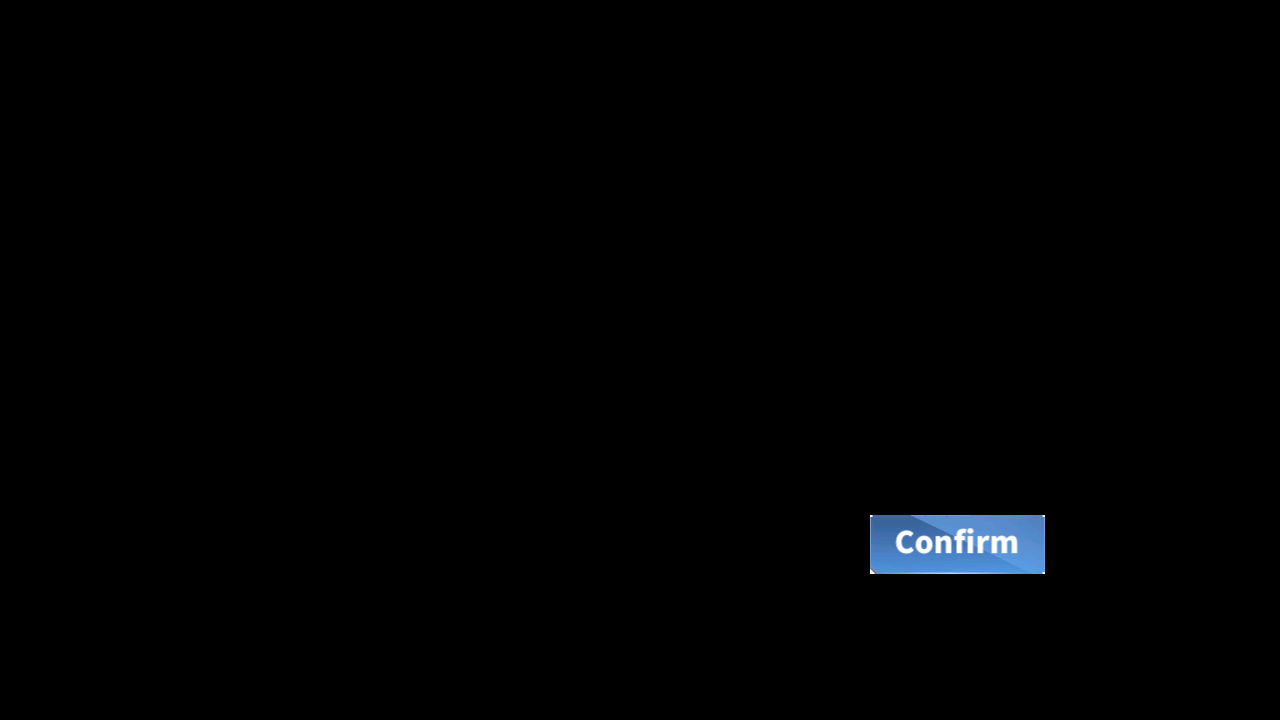
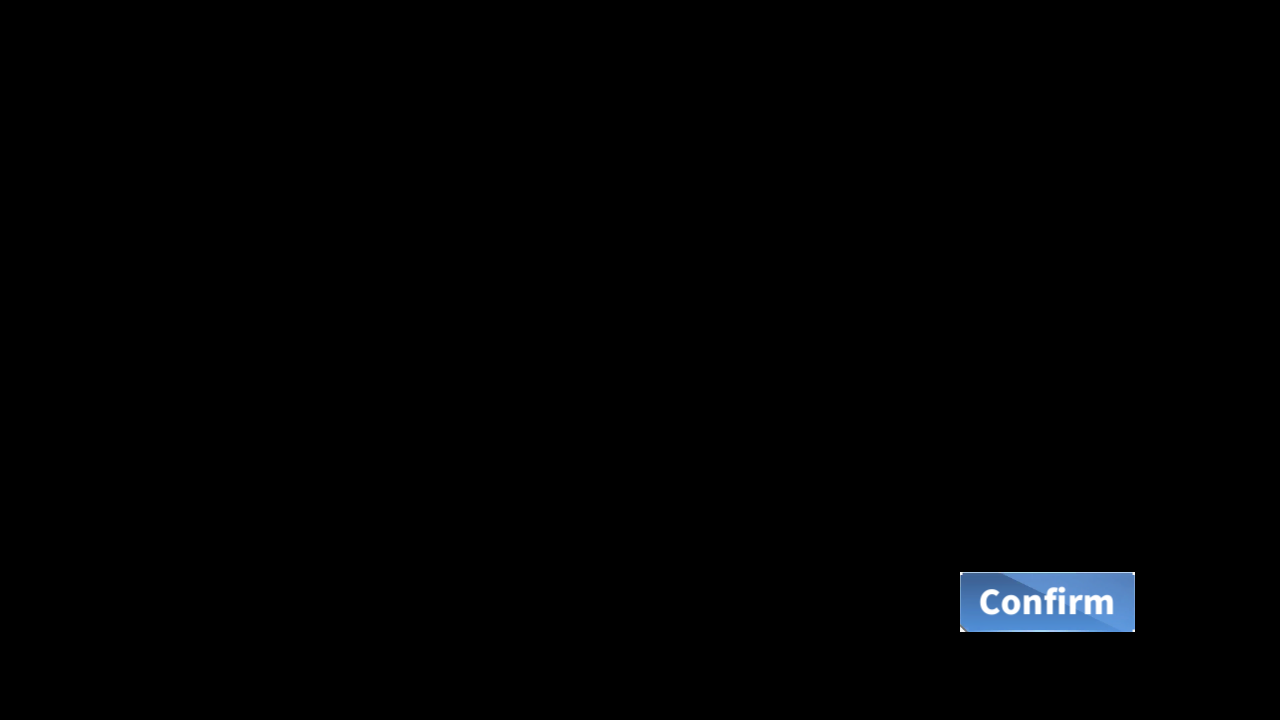
Fix: adapt some asset changes for EN and adjust retirement TODO: other servers equip confirm assets
.

Changed region(s): [[0.6562, 0.7028, 0.9062, 0.8861]]

diff --git a/module/retire/assets.py b/module/retire/assets.py
@@ -19,8 +19,8 @@ ENHANCE_CONFIRM = Button(area={'cn': (1126, 602, 1256, 645), 'en': (1226, 605, 1
 ENHANCE_FILLED = Button(area={'cn': (728, 440, 781, 454), 'en': (728, 440, 781, 454), 'jp': (722, 387, 789, 400), 'tw': (728, 440, 781, 454)}, color={'cn': (156, 138, 127), 'en': (156, 138, 127), 'jp': (146, 153, 211), 'tw': (156, 138, 127)}, button={'cn': (728, 440, 781, 454), 'en': (728, 440, 781, 454), 'jp': (722, 387, 789, 400), 'tw': (728, 440, 781, 454)}, file={'cn': './assets/cn/retire/ENHANCE_FILLED.png', 'en': './assets/en/retire/ENHANCE_FILLED.png', 'jp': './assets/jp/retire/ENHANCE_FILLED.png', 'tw': './assets/tw/retire/ENHANCE_FILLED.png'})
 ENHANCE_RECOMMEND = Button(area={'cn': (959, 602, 1089, 645), 'en': (1057, 606, 1091, 640), 'jp': (965, 605, 1085, 641), 'tw': (1050, 607, 1082, 639)}, color={'cn': (87, 134, 194), 'en': (106, 151, 215), 'jp': (86, 136, 201), 'tw': (106, 151, 212)}, button={'cn': (959, 602, 1089, 645), 'en': (1057, 606, 1091, 640), 'jp': (965, 605, 1085, 641), 'tw': (1050, 607, 1082, 639)}, file={'cn': './assets/cn/retire/ENHANCE_RECOMMEND.png', 'en': './assets/en/retire/ENHANCE_RECOMMEND.png', 'jp': './assets/jp/retire/ENHANCE_RECOMMEND.png', 'tw': './assets/tw/retire/ENHANCE_RECOMMEND.png'})
 ENHANCE_RELOAD = Button(area={'cn': (898, 277, 1164, 291), 'en': (898, 277, 1164, 291), 'jp': (898, 277, 1164, 291), 'tw': (898, 277, 1164, 291)}, color={'cn': (251, 231, 94), 'en': (251, 231, 94), 'jp': (251, 231, 94), 'tw': (251, 231, 94)}, button={'cn': (898, 277, 1164, 291), 'en': (898, 277, 1164, 291), 'jp': (898, 277, 1164, 291), 'tw': (898, 277, 1164, 291)}, file={'cn': './assets/cn/retire/ENHANCE_RELOAD.png', 'en': './assets/en/retire/ENHANCE_RELOAD.png', 'jp': './assets/jp/retire/ENHANCE_RELOAD.png', 'tw': './assets/tw/retire/ENHANCE_RELOAD.png'})
-EQUIP_CONFIRM = Button(area={'cn': (921, 528, 952, 559), 'en': (870, 515, 1045, 574), 'jp': (922, 528, 951, 559), 'tw': (922, 529, 952, 559)}, color={'cn': (176, 197, 225), 'en': (103, 150, 208), 'jp': (159, 184, 217), 'tw': (171, 194, 224)}, button={'cn': (871, 516, 1044, 573), 'en': (870, 515, 1045, 574), 'jp': (871, 516, 1044, 572), 'tw': (873, 515, 1043, 572)}, file={'cn': './assets/cn/retire/EQUIP_CONFIRM.png', 'en': './assets/en/retire/EQUIP_CONFIRM.png', 'jp': './assets/jp/retire/EQUIP_CONFIRM.png', 'tw': './assets/tw/retire/EQUIP_CONFIRM.png'})
-EQUIP_CONFIRM_2 = Button(area={'cn': (720, 541, 893, 598), 'en': (719, 540, 894, 600), 'jp': (720, 541, 893, 597), 'tw': (722, 541, 892, 598)}, color={'cn': (94, 142, 202), 'en': (108, 153, 208), 'jp': (91, 139, 198), 'tw': (93, 141, 203)}, button={'cn': (720, 541, 893, 598), 'en': (719, 540, 894, 600), 'jp': (720, 541, 893, 597), 'tw': (722, 541, 892, 598)}, file={'cn': './assets/cn/retire/EQUIP_CONFIRM_2.png', 'en': './assets/en/retire/EQUIP_CONFIRM_2.png', 'jp': './assets/jp/retire/EQUIP_CONFIRM_2.png', 'tw': './assets/tw/retire/EQUIP_CONFIRM_2.png'})
+EQUIP_CONFIRM = Button(area={'cn': (921, 528, 952, 559), 'en': (960, 572, 1135, 632), 'jp': (922, 528, 951, 559), 'tw': (922, 529, 952, 559)}, color={'cn': (176, 197, 225), 'en': (111, 153, 205), 'jp': (159, 184, 217), 'tw': (171, 194, 224)}, button={'cn': (871, 516, 1044, 573), 'en': (960, 572, 1135, 632), 'jp': (871, 516, 1044, 572), 'tw': (873, 515, 1043, 572)}, file={'cn': './assets/cn/retire/EQUIP_CONFIRM.png', 'en': './assets/en/retire/EQUIP_CONFIRM.png', 'jp': './assets/jp/retire/EQUIP_CONFIRM.png', 'tw': './assets/tw/retire/EQUIP_CONFIRM.png'})
+EQUIP_CONFIRM_2 = Button(area={'cn': (720, 541, 893, 598), 'en': (719, 539, 894, 600), 'jp': (720, 541, 893, 597), 'tw': (722, 541, 892, 598)}, color={'cn': (94, 142, 202), 'en': (109, 151, 202), 'jp': (91, 139, 198), 'tw': (93, 141, 203)}, button={'cn': (720, 541, 893, 598), 'en': (719, 539, 894, 600), 'jp': (720, 541, 893, 597), 'tw': (722, 541, 892, 598)}, file={'cn': './assets/cn/retire/EQUIP_CONFIRM_2.png', 'en': './assets/en/retire/EQUIP_CONFIRM_2.png', 'jp': './assets/jp/retire/EQUIP_CONFIRM_2.png', 'tw': './assets/tw/retire/EQUIP_CONFIRM_2.png'})
 GET_ITEMS_1_RETIREMENT_SAVE = Button(area={'cn': (1031, 656, 1063, 688), 'en': (1031, 656, 1063, 688), 'jp': (1031, 656, 1063, 688), 'tw': (1031, 656, 1063, 688)}, color={'cn': (49, 44, 54), 'en': (49, 44, 54), 'jp': (49, 44, 54), 'tw': (49, 44, 54)}, button={'cn': (1031, 656, 1063, 688), 'en': (1031, 656, 1063, 688), 'jp': (1031, 656, 1063, 688), 'tw': (1031, 656, 1063, 688)}, file={'cn': './assets/cn/retire/GET_ITEMS_1_RETIREMENT_SAVE.png', 'en': './assets/en/retire/GET_ITEMS_1_RETIREMENT_SAVE.png', 'jp': './assets/jp/retire/GET_ITEMS_1_RETIREMENT_SAVE.png', 'tw': './assets/tw/retire/GET_ITEMS_1_RETIREMENT_SAVE.png'})
 IN_RETIREMENT_CHECK = Button(area={'cn': (854, 641, 1027, 698), 'en': (866, 647, 1016, 690), 'jp': (855, 641, 1027, 697), 'tw': (854, 641, 1027, 698)}, color={'cn': (184, 99, 89), 'en': (191, 117, 108), 'jp': (179, 93, 85), 'tw': (184, 99, 89)}, button={'cn': (854, 641, 1027, 698), 'en': (866, 647, 1016, 690), 'jp': (855, 641, 1027, 697), 'tw': (854, 641, 1027, 698)}, file={'cn': './assets/cn/retire/IN_RETIREMENT_CHECK.png', 'en': './assets/en/retire/IN_RETIREMENT_CHECK.png', 'jp': './assets/jp/retire/IN_RETIREMENT_CHECK.png', 'tw': './assets/tw/retire/IN_RETIREMENT_CHECK.png'})
 ONE_CLICK_RETIREMENT = Button(area={'cn': (639, 641, 811, 698), 'en': (645, 649, 804, 687), 'jp': (638, 641, 812, 697), 'tw': (639, 641, 811, 698)}, color={'cn': (94, 138, 194), 'en': (113, 151, 201), 'jp': (90, 133, 190), 'tw': (94, 138, 194)}, button={'cn': (639, 641, 811, 698), 'en': (645, 649, 804, 687), 'jp': (638, 641, 812, 697), 'tw': (639, 641, 811, 698)}, file={'cn': './assets/cn/retire/ONE_CLICK_RETIREMENT.png', 'en': './assets/en/retire/ONE_CLICK_RETIREMENT.png', 'jp': './assets/jp/retire/ONE_CLICK_RETIREMENT.png', 'tw': './assets/tw/retire/ONE_CLICK_RETIREMENT.png'})

diff --git a/module/ui/assets.py b/module/ui/assets.py
@@ -9,7 +9,7 @@ ACADEMY_GOTO_GAME_ROOM = Button(area={'cn': (1074, 340, 1103, 374), 'en': (1074,
 ACADEMY_GOTO_MUNITIONS = Button(area={'cn': (1046, 188, 1137, 210), 'en': (1039, 185, 1145, 209), 'jp': (1057, 188, 1126, 210), 'tw': (1044, 184, 1139, 213)}, color={'cn': (133, 135, 165), 'en': (115, 120, 153), 'jp': (129, 133, 162), 'tw': (113, 119, 149)}, button={'cn': (1046, 188, 1137, 210), 'en': (1039, 185, 1145, 209), 'jp': (1057, 188, 1126, 210), 'tw': (1044, 184, 1139, 213)}, file={'cn': './assets/cn/ui/ACADEMY_GOTO_MUNITIONS.png', 'en': './assets/en/ui/ACADEMY_GOTO_MUNITIONS.png', 'jp': './assets/jp/ui/ACADEMY_GOTO_MUNITIONS.png', 'tw': './assets/tw/ui/ACADEMY_GOTO_MUNITIONS.png'})
 BACK_ARROW = Button(area={'cn': (33, 44, 47, 64), 'en': (33, 44, 47, 64), 'jp': (33, 44, 47, 64), 'tw': (33, 44, 47, 64)}, color={'cn': (112, 118, 152), 'en': (112, 118, 152), 'jp': (112, 118, 152), 'tw': (112, 118, 152)}, button={'cn': (33, 31, 81, 78), 'en': (33, 31, 81, 78), 'jp': (33, 31, 81, 78), 'tw': (33, 31, 81, 78)}, file={'cn': './assets/cn/ui/BACK_ARROW.png', 'en': './assets/en/ui/BACK_ARROW.png', 'jp': './assets/jp/ui/BACK_ARROW.png', 'tw': './assets/tw/ui/BACK_ARROW.png'})
 BATTLE_PASS_CHECK = Button(area={'cn': (701, 674, 723, 699), 'en': (701, 674, 723, 699), 'jp': (701, 674, 723, 699), 'tw': (701, 674, 723, 699)}, color={'cn': (129, 130, 134), 'en': (129, 130, 134), 'jp': (129, 130, 134), 'tw': (129, 130, 134)}, button={'cn': (701, 674, 723, 699), 'en': (701, 674, 723, 699), 'jp': (701, 674, 723, 699), 'tw': (701, 674, 723, 699)}, file={'cn': './assets/cn/ui/BATTLE_PASS_CHECK.png', 'en': './assets/en/ui/BATTLE_PASS_CHECK.png', 'jp': './assets/jp/ui/BATTLE_PASS_CHECK.png', 'tw': './assets/tw/ui/BATTLE_PASS_CHECK.png'})
-BUILD_CHECK = Button(area={'cn': (121, 15, 175, 40), 'en': (120, 17, 176, 39), 'jp': (121, 15, 175, 40), 'tw': (116, 11, 179, 41)}, color={'cn': (163, 179, 215), 'en': (131, 144, 185), 'jp': (166, 180, 215), 'tw': (128, 142, 179)}, button={'cn': (121, 15, 175, 40), 'en': (120, 17, 176, 39), 'jp': (121, 15, 175, 40), 'tw': (116, 11, 179, 41)}, file={'cn': './assets/cn/ui/BUILD_CHECK.png', 'en': './assets/en/ui/BUILD_CHECK.png', 'jp': './assets/jp/ui/BUILD_CHECK.png', 'tw': './assets/tw/ui/BUILD_CHECK.png'})
+BUILD_CHECK = Button(area={'cn': (121, 15, 175, 40), 'en': (112, 16, 183, 40), 'jp': (121, 15, 175, 40), 'tw': (116, 11, 179, 41)}, color={'cn': (163, 179, 215), 'en': (125, 138, 178), 'jp': (166, 180, 215), 'tw': (128, 142, 179)}, button={'cn': (121, 15, 175, 40), 'en': (112, 16, 183, 40), 'jp': (121, 15, 175, 40), 'tw': (116, 11, 179, 41)}, file={'cn': './assets/cn/ui/BUILD_CHECK.png', 'en': './assets/en/ui/BUILD_CHECK.png', 'jp': './assets/jp/ui/BUILD_CHECK.png', 'tw': './assets/tw/ui/BUILD_CHECK.png'})
 CAMPAIGN_CHECK = Button(area={'cn': (173, 78, 194, 98), 'en': (136, 79, 183, 91), 'jp': (172, 77, 192, 98), 'tw': (173, 78, 194, 98)}, color={'cn': (165, 182, 221), 'en': (109, 126, 172), 'jp': (163, 181, 220), 'tw': (165, 182, 221)}, button={'cn': (173, 78, 194, 98), 'en': (136, 79, 183, 91), 'jp': (172, 77, 192, 98), 'tw': (173, 78, 194, 98)}, file={'cn': './assets/cn/ui/CAMPAIGN_CHECK.png', 'en': './assets/en/ui/CAMPAIGN_CHECK.gif', 'jp': './assets/jp/ui/CAMPAIGN_CHECK.png', 'tw': './assets/tw/ui/CAMPAIGN_CHECK.png'})
 CAMPAIGN_GOTO_DAILY = Button(area={'cn': (804, 648, 892, 703), 'en': (807, 648, 891, 703), 'jp': (791, 647, 893, 703), 'tw': (804, 648, 892, 703)}, color={'cn': (189, 145, 78), 'en': (165, 123, 54), 'jp': (176, 141, 73), 'tw': (189, 145, 78)}, button={'cn': (804, 648, 892, 703), 'en': (807, 648, 891, 703), 'jp': (791, 647, 893, 703), 'tw': (804, 648, 892, 703)}, file={'cn': './assets/cn/ui/CAMPAIGN_GOTO_DAILY.png', 'en': './assets/en/ui/CAMPAIGN_GOTO_DAILY.png', 'jp': './assets/jp/ui/CAMPAIGN_GOTO_DAILY.png', 'tw': './assets/tw/ui/CAMPAIGN_GOTO_DAILY.png'})
 CAMPAIGN_GOTO_EVENT = Button(area={'cn': (173, 78, 194, 98), 'en': (129, 79, 186, 91), 'jp': (172, 77, 192, 98), 'tw': (173, 78, 194, 98)}, color={'cn': (165, 182, 221), 'en': (112, 130, 175), 'jp': (163, 181, 220), 'tw': (165, 182, 221)}, button={'cn': (1178, 171, 1230, 223), 'en': (1171, 164, 1237, 216), 'jp': (1178, 168, 1228, 217), 'tw': (1178, 171, 1230, 223)}, file={'cn': './assets/cn/ui/CAMPAIGN_GOTO_EVENT.png', 'en': './assets/en/ui/CAMPAIGN_GOTO_EVENT.png', 'jp': './assets/jp/ui/CAMPAIGN_GOTO_EVENT.png', 'tw': './assets/tw/ui/CAMPAIGN_GOTO_EVENT.png'})

diff --git a/module/retire/retirement.py b/module/retire/retirement.py
@@ -138,10 +138,10 @@ class Retirement(Enhancement, QuickRetireSettingHandler):
                 continue
             # Equip confirm
             if self.appear_then_click(EQUIP_CONFIRM, offset=(30, 30), interval=2):
-                executed = True
                 continue
             if self.appear_then_click(EQUIP_CONFIRM_2, offset=(30, 30), interval=2):
                 self.interval_clear(GET_ITEMS_1)
+                executed = True
                 continue
             # Get items
             if self.appear(GET_ITEMS_1, offset=(30, 30), interval=2):
